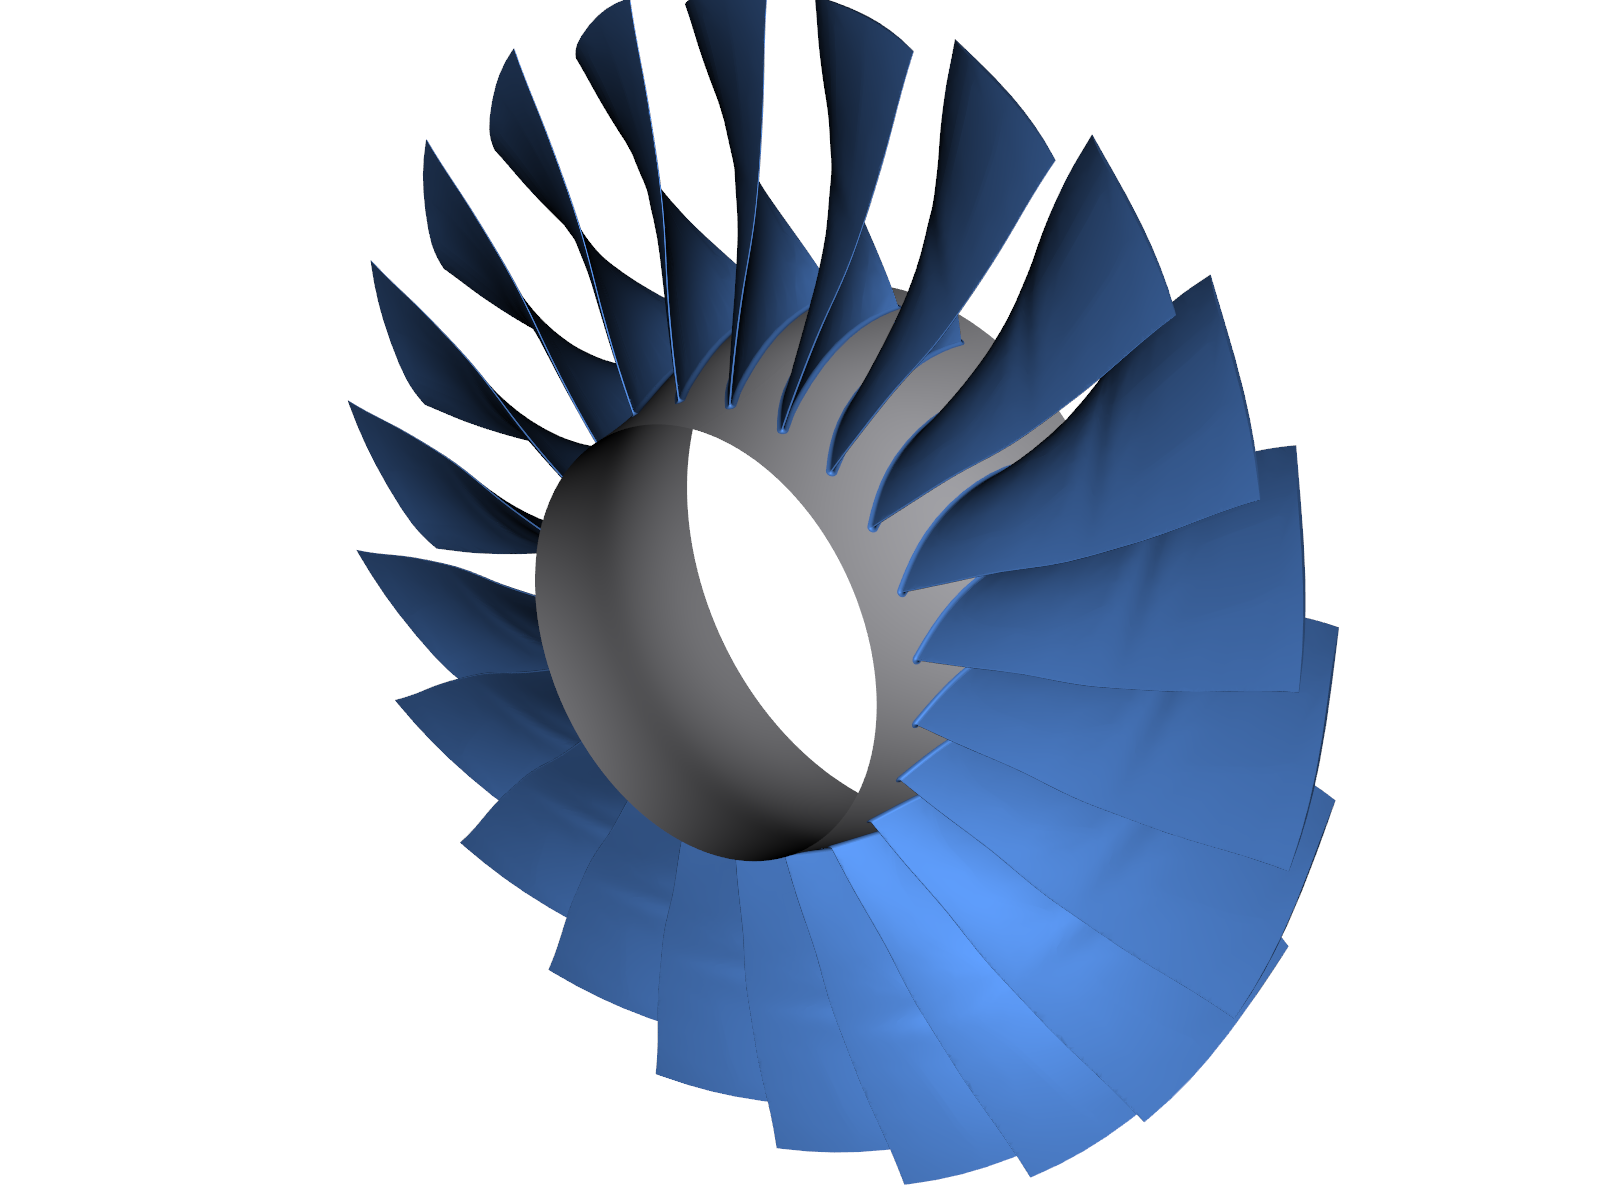
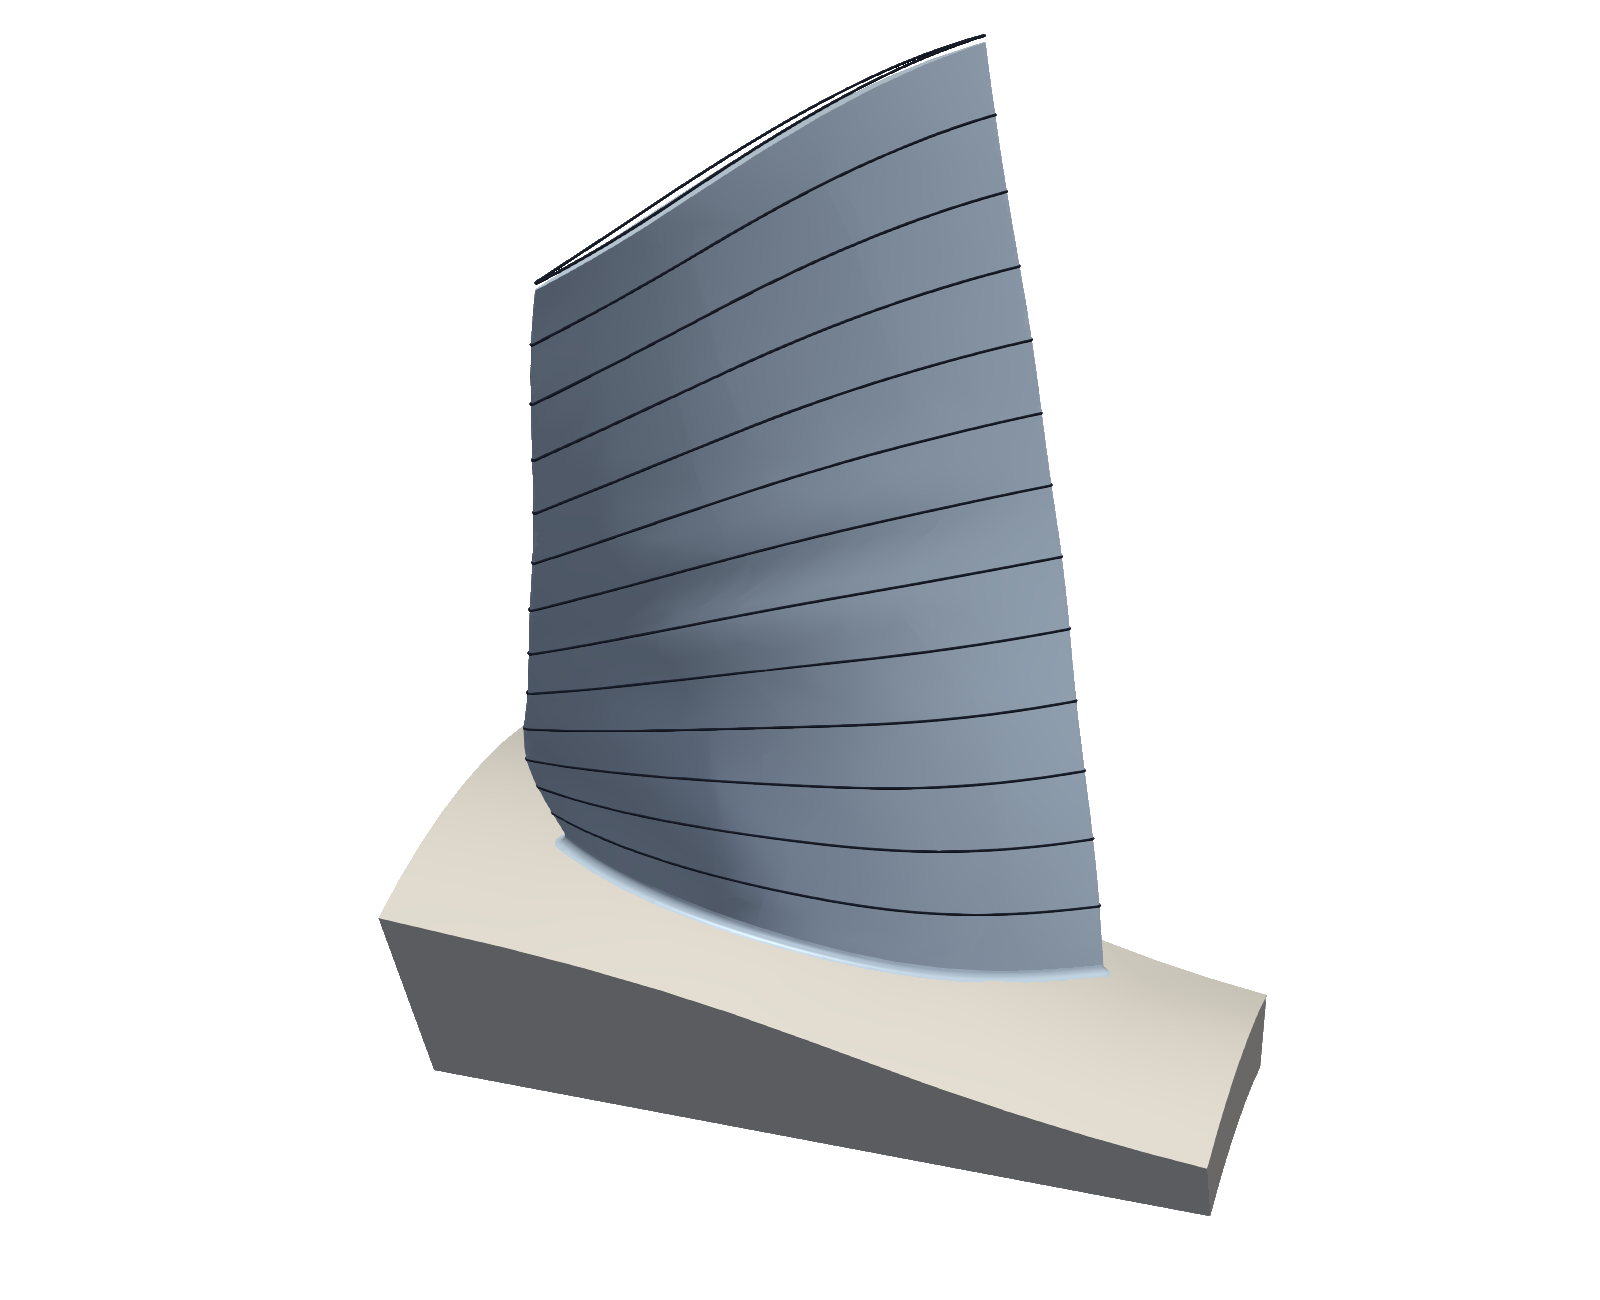
README image: the notebook-04 3-D model (blade solid, hub sector, fillet, 14 stations), transparent background

diff --git a/tools/render_rotor67.py b/tools/render_rotor67.py
@@ -1,9 +1,10 @@
-"""Render NASA Rotor 67 as rebuilt by BladeGen (assets/rotor67.png, assets/rotor67_blade.png).
+"""Render NASA Rotor 67 as rebuilt by BladeGen (assets/rotor67.png).
 
     python tools/render_rotor67.py            (bladegen module on PYTHONPATH: build preset 'python')
 
 Uses the fitted definition data/rotor67/rotor67_bladegen.json (written by apps/rotor67), builds the
-C2 blade with the 1.78 mm hub fillet, copies it 22 times around the axis and renders it with VTK
+C2 blade with the 1.78 mm hub fillet on its hub sector, draws the 14 fitted stations on it and renders
+the scene of notebook 04 with VTK, on a transparent background
 (off-screen; VTK ships with the conda-forge OCCT build).
 """
 import sys
@@ -71,13 +72,19 @@ def actor(pd, rgb, spec=0.25):
 def render(actors, path, size, cam):
     ren = vtk.vtkRenderer()
     ren.SetBackground(1, 1, 1)
+    ren.SetBackgroundAlpha(0.0)  # transparent PNG: blends with light and dark page themes
+    ren.UseFXAAOn()
+    kit = vtk.vtkLightKit()  # key, fill, back and head lights: even shading like plotly
+    kit.SetKeyLightIntensity(0.9)
+    kit.AddLightsToRenderer(ren)
     for a in actors:
         ren.AddActor(a)
     win = vtk.vtkRenderWindow()
     win.SetOffScreenRendering(1)
     win.AddRenderer(ren)
     win.SetSize(*size)
-    win.SetMultiSamples(8)
+    win.SetMultiSamples(0)
+    win.SetAlphaBitPlanes(1)
     c = ren.GetActiveCamera()
     c.SetFocalPoint(0, 0, 0)
     c.SetPosition(*cam["direction"])  # view direction only; ResetCamera frames the scene
@@ -88,6 +95,8 @@ def render(actors, path, size, cam):
     win.Render()
     w2i = vtk.vtkWindowToImageFilter()
     w2i.SetInput(win)
+    w2i.SetInputBufferTypeToRGBA()
+    w2i.ReadFrontBufferOff()
     w2i.Update()
     wr = vtk.vtkPNGWriter()
     wr.SetFileName(str(path))
@@ -96,26 +105,32 @@ def render(actors, path, size, cam):
     print("wrote", path)
 
 
-# hub: surface of revolution of the flowpath hub over the bladed region
-hub = data.hub_curve()
-xr = np.array([hub.at_m(m) for m in np.linspace(0, hub.length, 600)]) * 1000
-z = np.linspace(-20, 105, 140)
-rh = np.interp(z, xr[:, 0], xr[:, 1])
-th = np.linspace(0, 2 * np.pi, 361)
-Z, T = np.meshgrid(z, th, indexing="ij")
-R = np.interp(Z, z, rh) - 0.2  # 0.2 mm inside: no z-fighting with the blade footprints
-hv = np.stack([Z, R * np.sin(T), R * np.cos(T)], axis=-1).reshape(-1, 3)
-nz, nt = Z.shape
-idx = np.arange(nz * nt).reshape(nz, nt)
-q = np.stack([idx[:-1, :-1], idx[1:, :-1], idx[1:, 1:], idx[:-1, 1:]], axis=-1).reshape(-1, 4)
-hf = np.vstack([q[:, [0, 1, 2]], q[:, [0, 2, 3]]])
+def tube(points, rgb, radius):
+    pts = vtk.vtkPoints()
+    pts.SetData(numpy_to_vtk(np.ascontiguousarray(points, dtype=float), deep=True))
+    line = vtk.vtkPolyLine()
+    line.GetPointIds().SetNumberOfIds(len(points))
+    for i in range(len(points)):
+        line.GetPointIds().SetId(i, i)
+    cells = vtk.vtkCellArray()
+    cells.InsertNextCell(line)
+    pd = vtk.vtkPolyData()
+    pd.SetPoints(pts)
+    pd.SetLines(cells)
+    tf = vtk.vtkTubeFilter()
+    tf.SetInputData(pd)
+    tf.SetRadius(radius)
+    tf.SetNumberOfSides(12)
+    tf.Update()
+    return actor(tf.GetOutput(), rgb, 0.1)
 
-blades = []
-for k in range(data.n_blades):
-    blades.append(actor(polydata(rot_x(v, 2 * np.pi * k / data.n_blades), f), (0.30, 0.50, 0.80)))
-hub_actor = actor(polydata(hv, hf), (0.70, 0.70, 0.72), 0.1)
-render([hub_actor] + blades, REPO / "assets" / "rotor67.png", (1600, 1200),
-       {"direction": (-1.0, -0.85, 0.55), "up": (0, 0, 1), "zoom": 1.5})
-# one blade with its fillet, close up near the root
-render([actor(polydata(v, f), (0.30, 0.50, 0.80))], REPO / "assets" / "rotor67_blade.png", (1200, 1200),
-       {"direction": (-1.0, 0.35, 0.3), "up": (0, 0, 1), "zoom": 1.1})
+
+# the same scene as notebook 04: blade (with fillet) on its hub sector, plus the 14 fitted stations
+hv, hf, _ = sh.hub.tessellate(2e-4, 0.25)
+scene = [actor(polydata(v, f), (0.69, 0.77, 0.87)),          # plotly 'lightsteelblue'
+         actor(polydata(hv * 1000.0, hf), (0.80, 0.80, 0.80), 0.1)]
+for s in blade.sections(60, 200):
+    xyz = s["xyz"] * 1000.0
+    scene.append(tube(xyz, (0.10, 0.12, 0.18), 0.22))
+render(scene, REPO / "assets" / "rotor67.png", (1600, 1300),
+       {"direction": (-0.35, 1.0, 0.45), "up": (0, 0, 1), "zoom": 1.25})

diff --git a/README.md b/README.md
@@ -10,11 +10,11 @@ NURBS blades, a rolling-ball hub fillet, Python bindings and interactive noteboo
 [![License: GPL v3](https://img.shields.io/badge/License-GPLv3-blue.svg)](LICENSE)
 
 <p align="center">
-  <img src="assets/rotor67.png" width="62%" alt="NASA Rotor 67 rebuilt with BladeGen"/>
-  <img src="assets/rotor67_blade.png" width="34%" alt="one Rotor 67 blade with the hub fillet"/>
-  <br/><em>NASA Rotor 67 rebuilt by BladeGen from the 14 published sections (TP-2879): 22 C2 NURBS blades,
-  1.016 mm tip clearance, 1.78 mm rolling-ball hub fillet (right: one blade, the fillet at its root).
-  Rendered by <code>tools/render_rotor67.py</code>.</em>
+  <img src="assets/rotor67.png" width="60%" alt="NASA Rotor 67 blade rebuilt with BladeGen"/>
+  <br/><em>NASA Rotor 67 rebuilt by BladeGen from its 14 published sections (NASA TP-2879): the C2 NURBS blade
+  solid on its hub sector with the 1.78 mm rolling-ball hub fillet; black lines are the 14 fitted stations
+  (the top one is the casing contour, the tip sits 1.016 mm below it). The 3-D model of notebook
+  <code>04_rotor67</code>, rendered by <code>tools/render_rotor67.py</code>.</em>
 </p>
 
 ## Quick start
